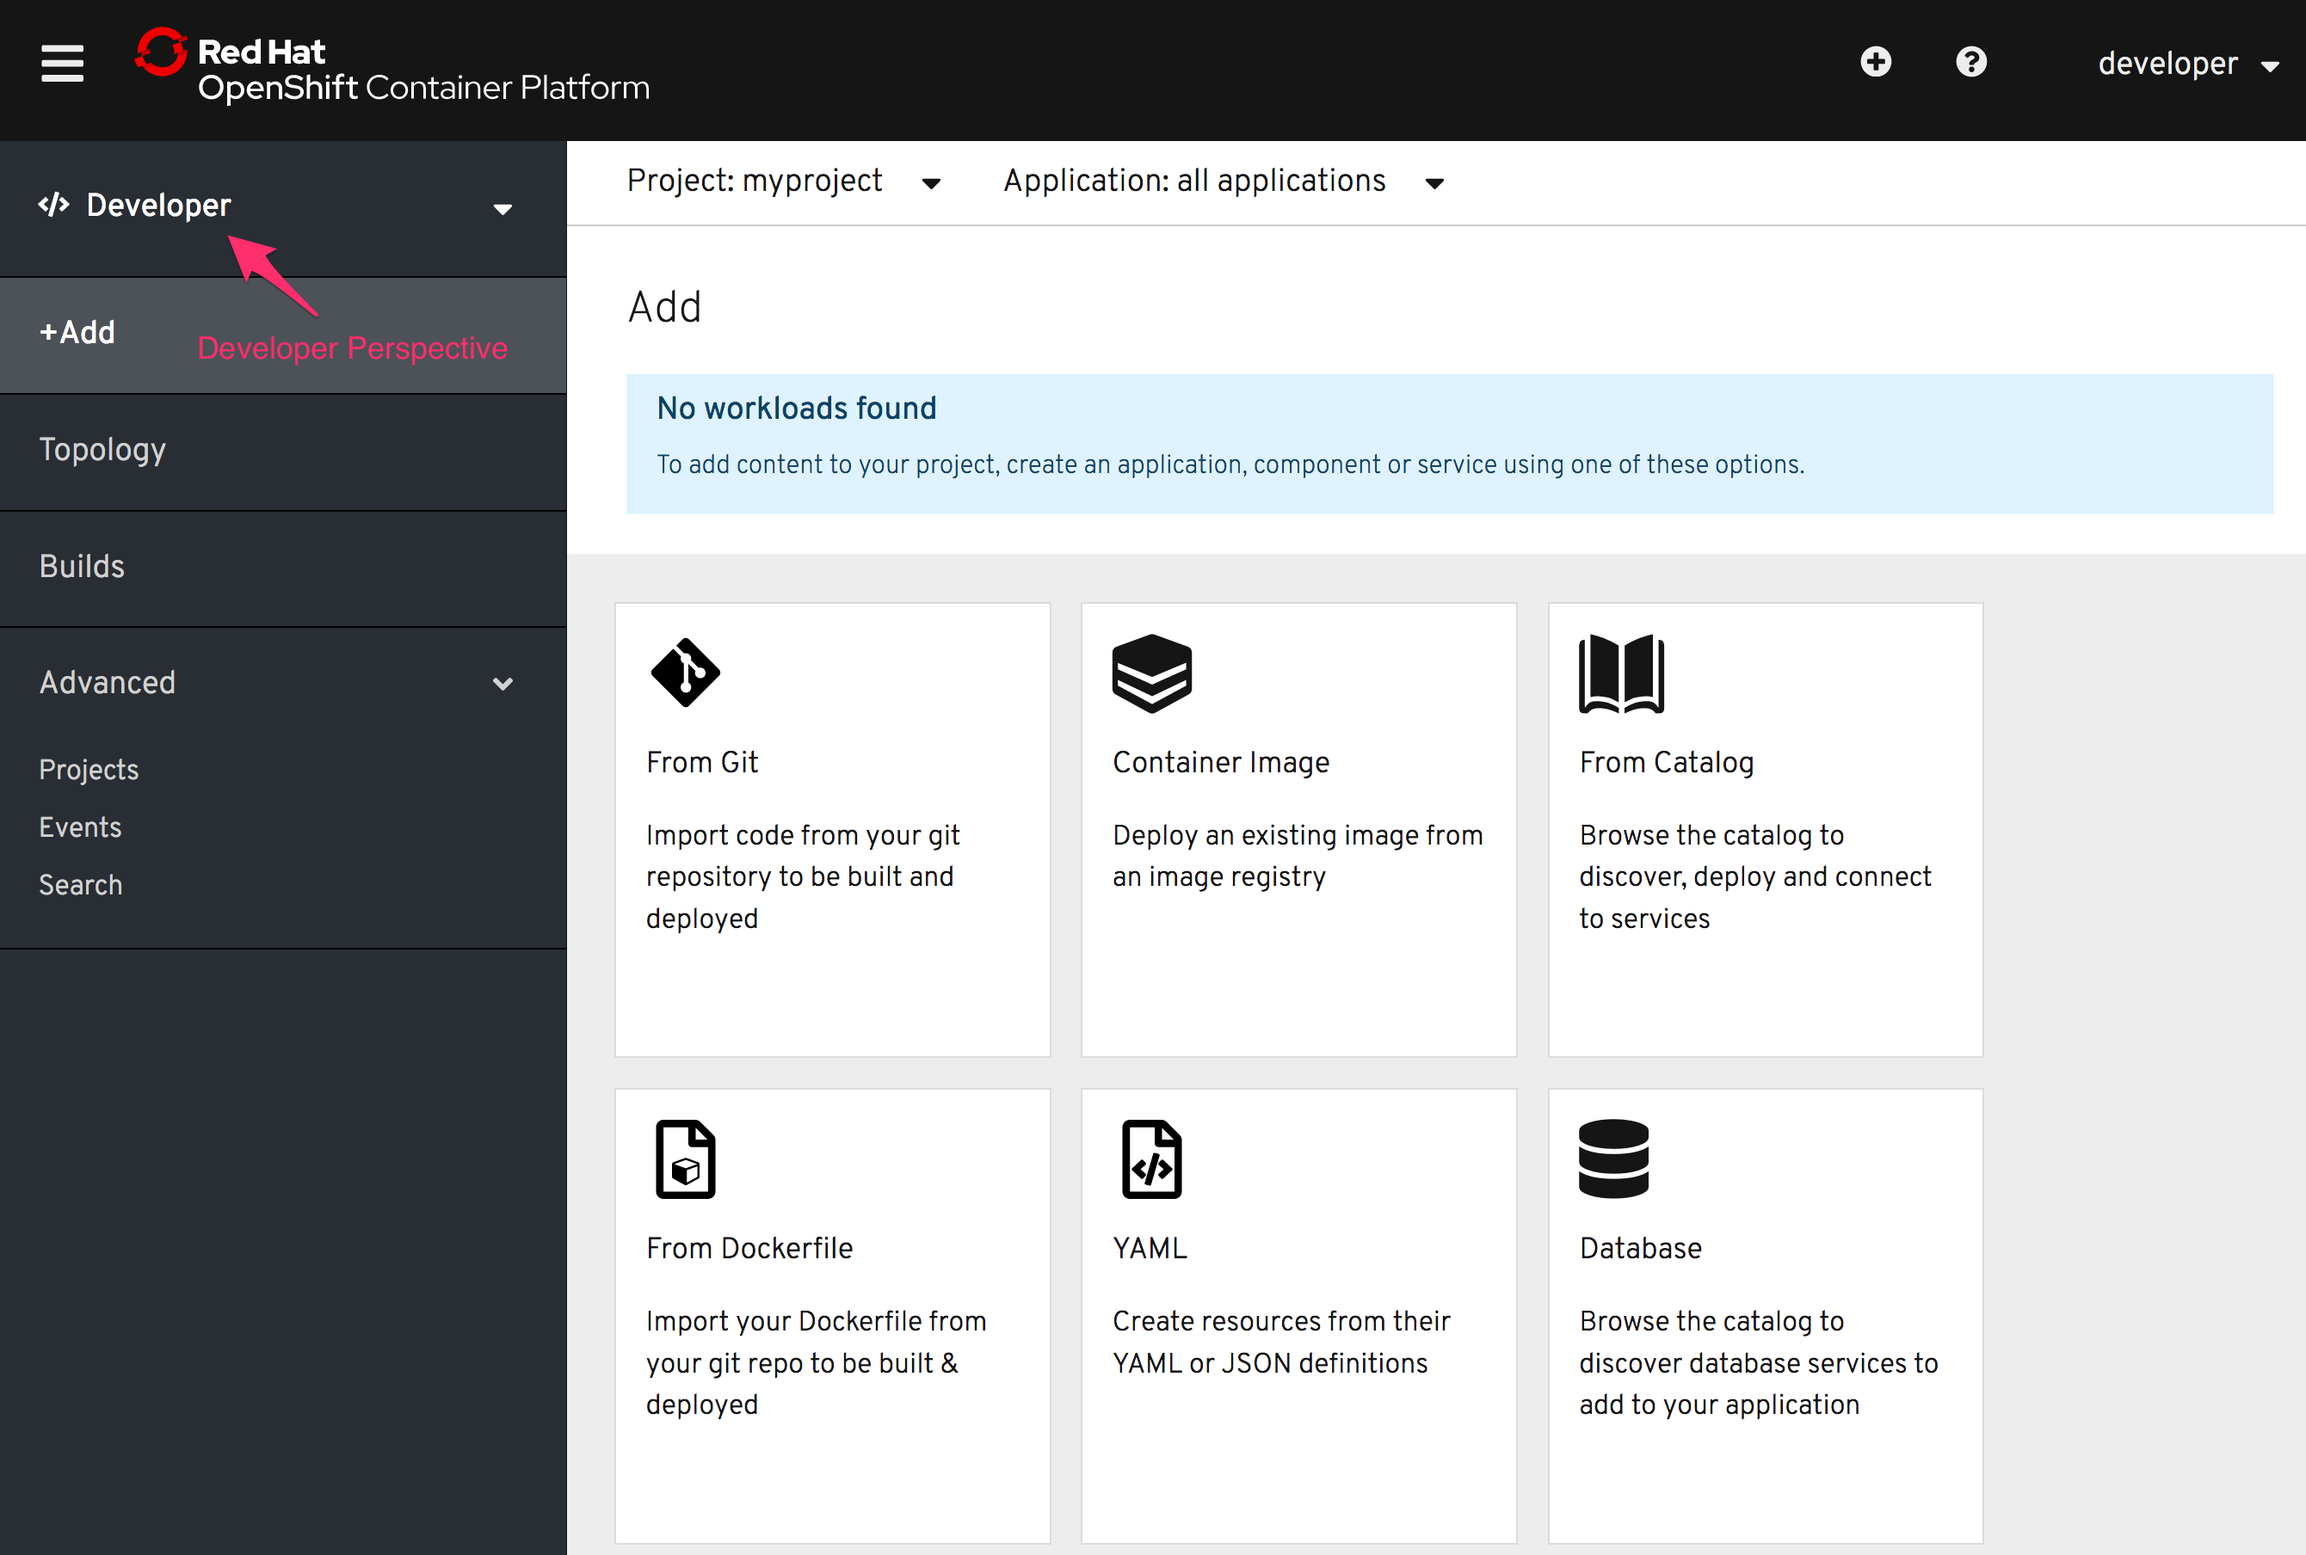
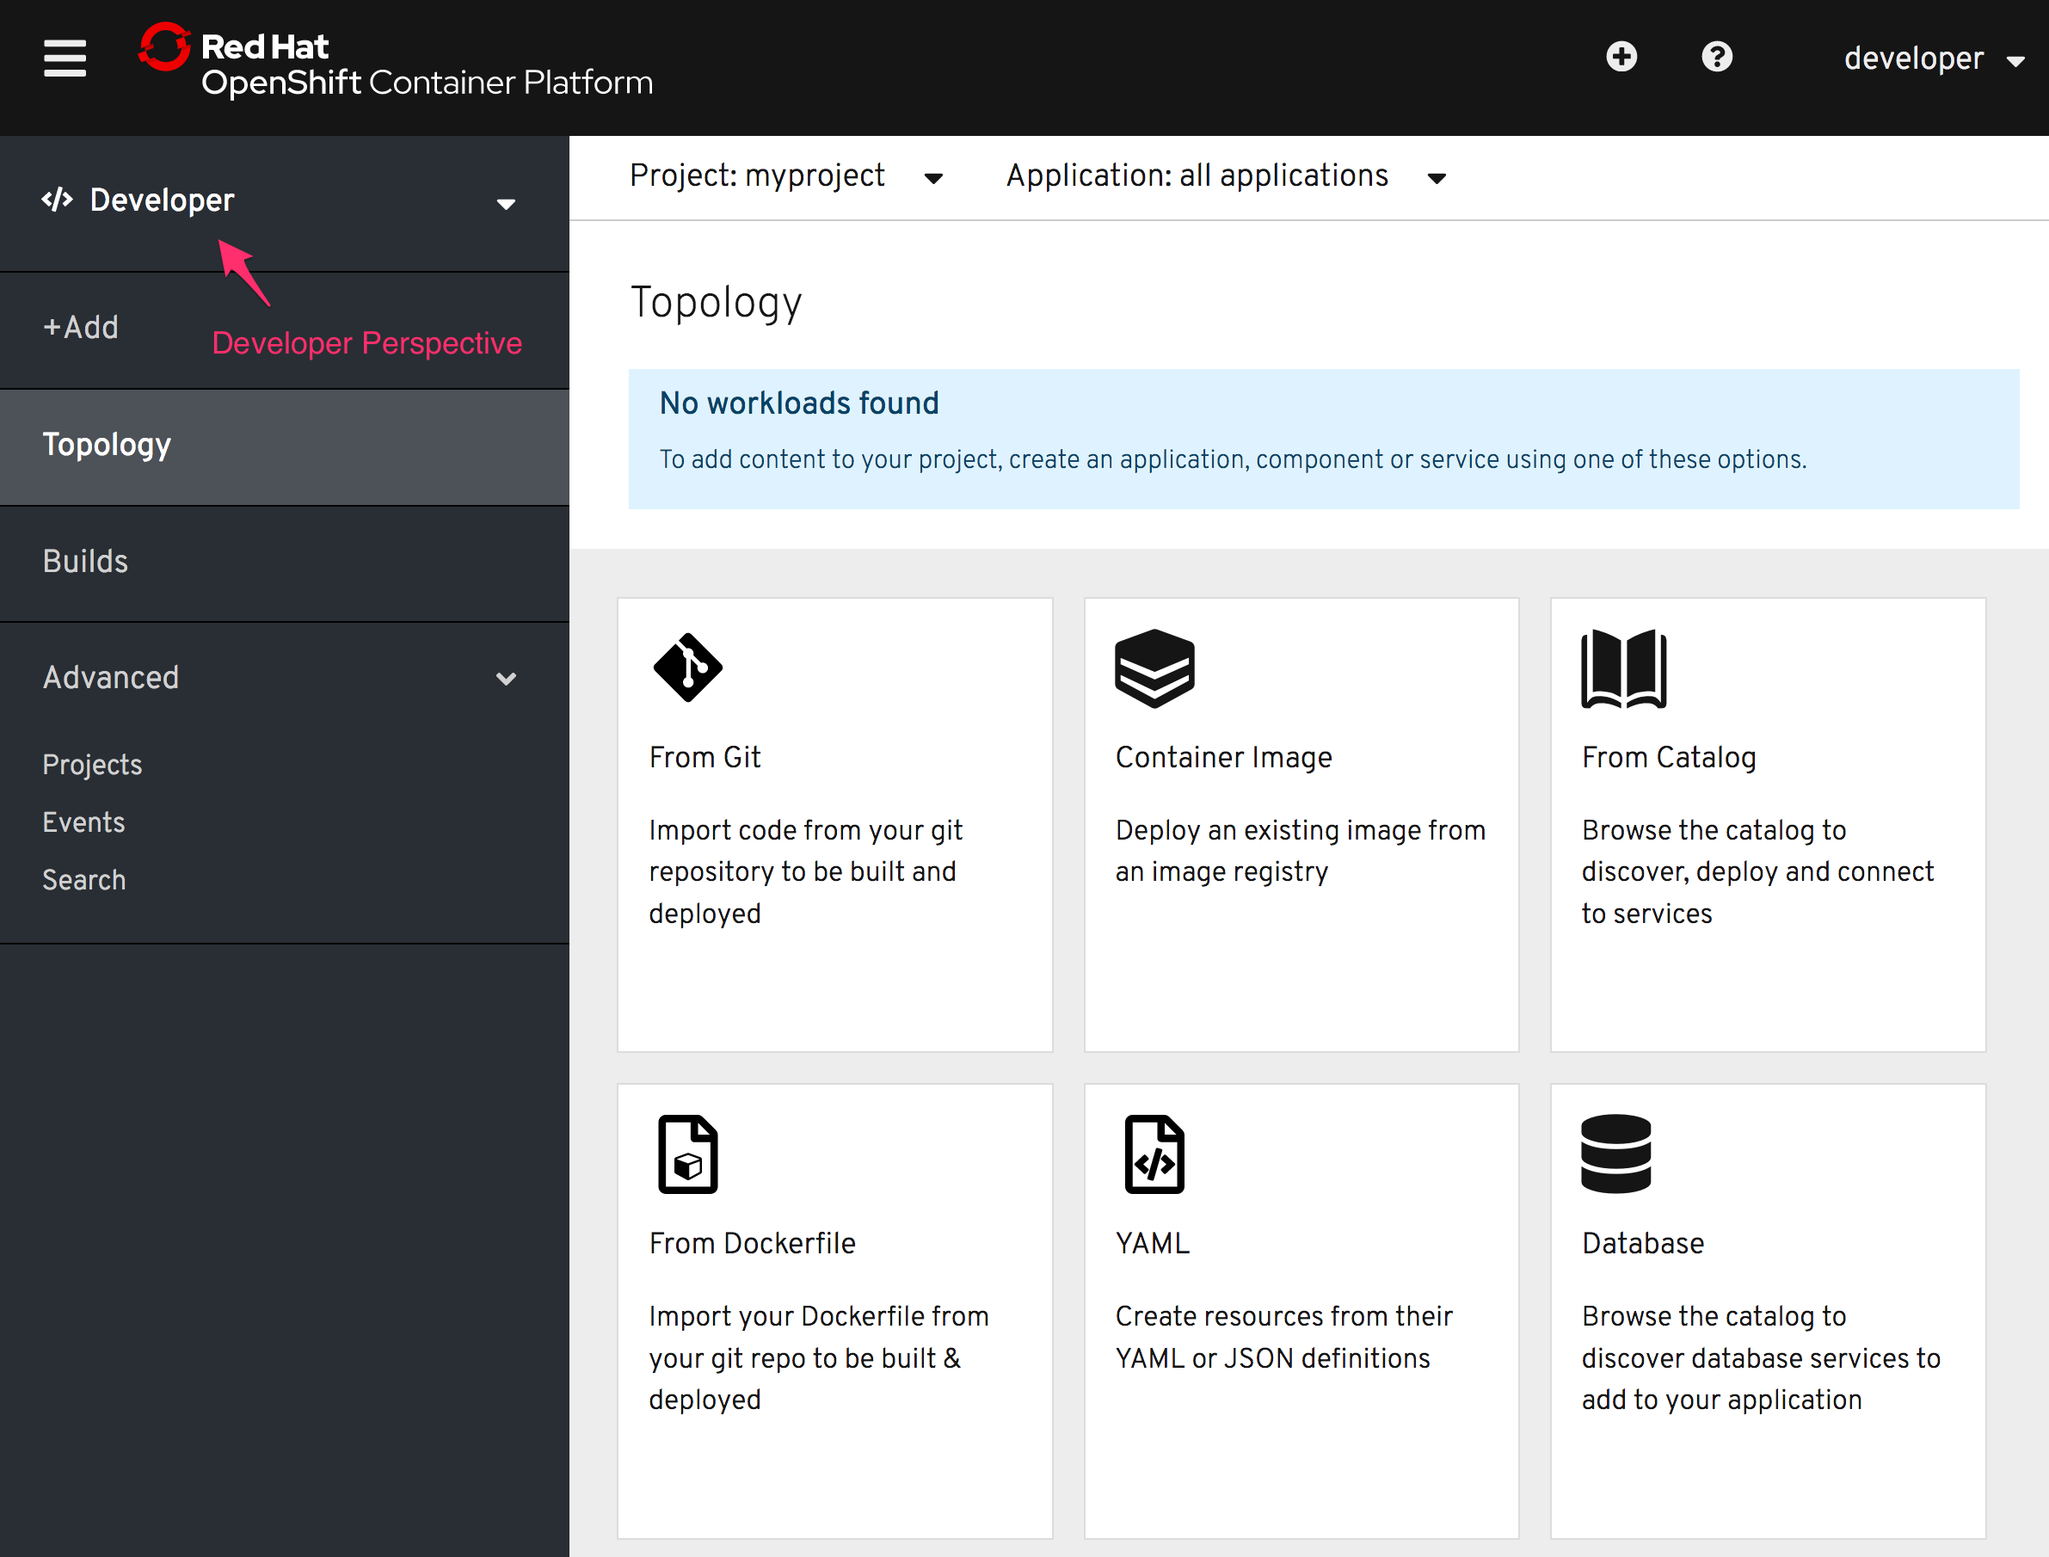
Revised screenshot for add to project.

diff --git a/datascience/jupyter-notebooks-42/03-accessing-the-web-console.md b/datascience/jupyter-notebooks-42/03-accessing-the-web-console.md
@@ -16,6 +16,8 @@ As you have already created a project to use for this workshop, you will be pres
 Click on ``myproject`` and you should then be at the _Overview_ page for
 the project. Select the _Developer_ perspective for the project instead of the _Adminstrator_ perspective in the left hand side menu. If necessary click on the hamburger menu icon top left of the web console to expose the left hand side menu.
 
-As the project is currently empty, no workloads should be found and you will be left on the _Add+_ view, and presented with various options for how you can deploy an application.
-
 ![Add to Project](../../assets/datascience/jupyter-notebooks-42/03-add-to-project.png)
+
+As the project is currently empty, no workloads should be found and you will be presented with various options for how you can deploy an application.
+
+Once you have deployed a workload, you can return to this view to deploy additional applications by selecting the _Add+_ option in the left hand side menu.
